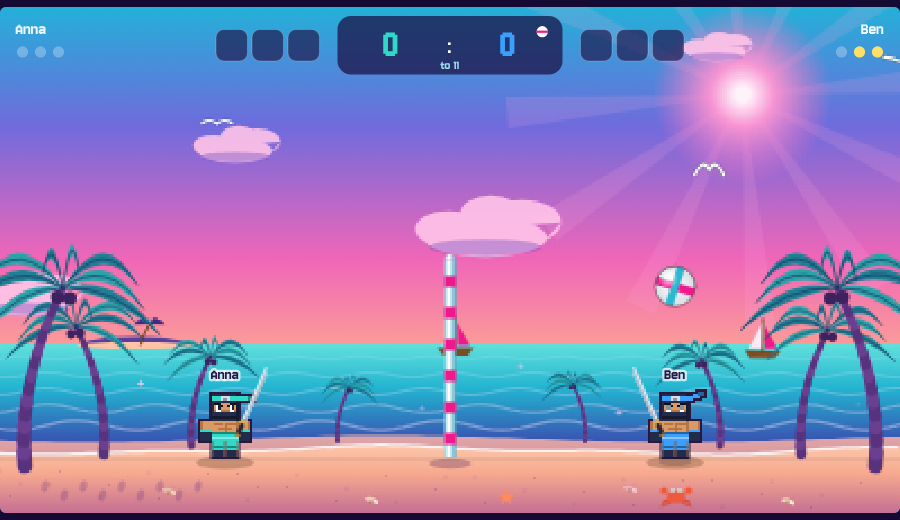
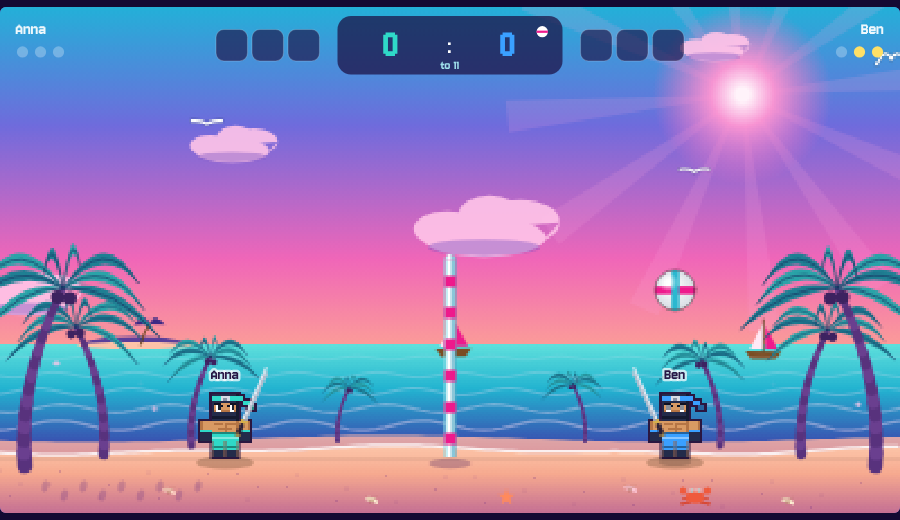
Ranged weapons without auto-aim: Cyborg shotgun (3 pellets), Cowboy revolver (1 bullet, fast reload)
Claude-Session: https://claude.ai/code/session_01SftAWfgvfxAKUMmDe4fn3V

diff --git a/scene.js b/scene.js
@@ -47,7 +47,7 @@
 
   function drawPerson(ctx, b, ball, t) {
     const R = C.BLOB_R, j = jstate(b), fem = b.gender === 'f', v = b.style;
-    const ninja = v === 'ninja', santa = v === 'santa', adv = v === 'adventurer', robot = v === 'robot';
+    const ninja = v === 'ninja', santa = v === 'santa', adv = v === 'adventurer', robot = v === 'cyborg', cow = v === 'cowboy';
     const hgt = Math.max(0, (C.GROUND - R) - b.y);
     ctx.fillStyle = `rgba(60,40,10,${0.26 - Math.min(0.16, hgt / 800)})`;
     ctx.beginPath(); ctx.ellipse(b.x, C.GROUND + 5, R * 0.85 * (1 - hgt / 650), 6, 0, 0, TAU); ctx.fill();
@@ -106,15 +106,15 @@
       part(12, -24 + cy, 4, 4, col, true); part(16, -22 + cy + w, 6, 4, col, true); part(20, -20 + cy + w * 2, 6, 4, dark, true);
       if (fem) { part(-18, -22 + cy, 6, 4, col, true); part(-18, -18 + cy, 4, 12, NH, true); }
     } else if (robot) {
-      // metal head: dark visor with glowing LED eyes that follow the ball, antenna, mouth grille
-      part(-12, -26 + cy, 24, 4, '#d4dbe8', false);
+      // cyborg: dark steel skull with glowing red eyes that follow the ball, exposed jaw, scar plate; chest plate with a red core
+      part(-12, -26 + cy, 24, 4, '#d4dbe8', false); part(-12, -6 + cy, 24, 4, '#5d6779', false);
       part(-10, -18 + cy, 20, 8, '#10151f', true);
-      [-8, 2].forEach(x => { part(x + (ox - 1) * 2, -16 + cy + (oy ? 1 : 0), 6, 4, '#4cf0ff', false); part(x + (ox - 1) * 2 + 2, -16 + cy, 2, 2, '#e6ffff', false); });
-      part(-6, -6 + cy, 12, 2, '#4a5468', false); part(-4, -6 + cy, 2, 2, '#aab6c8', false); part(0, -6 + cy, 2, 2, '#aab6c8', false);
-      part(-2, -34 + cy, 4, 8, METAL[1], true); part(-4, -38 + cy, 8, 4, '#ff3b5c', true);
-      part(-14, -16 + cy, 2, 8, METAL[1], false); part(12, -16 + cy, 2, 8, METAL[1], false);            // ear bolts
-      if (fem) { part(-12, -30 + cy, 8, 6, col, true); part(-10, -28 + cy, 4, 2, light, false); }
-      part(-8, 2 + cy, 16, 2, METAL[1], false); part(-8, 6 + cy, 2, 2, '#4cf0ff', false); part(6, 6 + cy, 2, 2, '#ff3b5c', false);   // chest panel
+      [-8, 2].forEach(x => { part(x + (ox - 1) * 2, -16 + cy + (oy ? 1 : 0), 6, 4, '#ff2a2a', false); part(x + (ox - 1) * 2 + 2, -16 + cy, 2, 2, '#ffd0d0', false); });
+      part(-8, -6 + cy, 16, 2, '#10151f', false); [-6, -2, 2, 6].forEach(x => part(x, -6 + cy, 2, 2, '#aab6c8', false));
+      part(4, -26 + cy, 8, 4, '#3a4252', false); part(6, -22 + cy, 2, 6, '#3a4252', false);            // damaged plate
+      part(-14, -16 + cy, 2, 8, METAL[1], false); part(12, -16 + cy, 2, 8, METAL[1], false);
+      if (fem) { part(-14, -22 + cy, 4, 4, METAL[1], true); part(-18, -18 + cy, 4, 16, '#3a4252', true); part(-18, -4 + cy, 4, 4, col, true); }   // cable ponytail
+      part(-8, 2 + cy, 16, 2, METAL[1], false); part(-2, 5 + cy, 4, 4, '#ff2a2a', false); part(-6, 6 + cy, 2, 2, '#aab6c8', false); part(4, 6 + cy, 2, 2, '#aab6c8', false);
     } else {
       // hair: short for him, long for her; Santa / Mrs. Claus have white hair under the hat
       const h0 = santa ? WH : hr[0], h1 = santa ? WH2 : hr[1];
@@ -173,11 +173,20 @@
       part(-12, -36 + cy, 24, 4, '#3a2412', false); part(-12, -42 + cy, 24, 2, '#a4733f', false); part(-2, -44 + cy, 4, 2, '#8b5e34', false);
       if (fem) { part(-18, -26 + cy, 6, 4, hr[0], true); part(-20, -22 + cy, 6, 14, hr[0], true); part(-20, -10 + cy, 6, 4, col, true); }   // braid
     }
+    // Cowboy: tan hat with upturned brim and red band, red neckerchief, sheriff star, spurs
+    if (cow) {
+      part(-12, -8 + cy, 24, 6, '#d7263d', false); part(-8, -2 + cy, 16, 4, '#d7263d', false); part(-4, 2 + cy, 8, 2, '#a01a2c', false);   // neckerchief
+      part(-8, 4 + cy, 6, 6, '#ffd23f', true); part(-6, 6 + cy, 2, 2, '#b8860b', false);                                                         // star
+      [-11, 1].forEach(x => part(x + 8, 28, 4, 2, '#ffd23f', false));                                                                              // spurs
+      part(-20, -32 + cy, 40, 6, '#c89a5a', true); part(-24, -36 + cy, 8, 6, '#c89a5a', true); part(16, -36 + cy, 8, 6, '#c89a5a', true);         // brim, curled up
+      part(-12, -46 + cy, 24, 14, '#d9ad6b', true); part(-4, -48 + cy, 8, 4, '#d9ad6b', true); part(-12, -38 + cy, 24, 4, '#a01a2c', false);   // crown + band
+      if (fem) { part(-18, -26 + cy, 6, 4, hr[0], true); part(-20, -22 + cy, 6, 14, hr[0], true); part(-20, -10 + cy, 6, 4, col, true); }
+    }
     ctx.fillStyle = OUT;
     ol.forEach(([x, y, w, h]) => ctx.fillRect(x - 2, y - 2, w + 4, h + 4));
     fill.forEach(([x, y, w, h, c]) => { ctx.fillStyle = c; ctx.fillRect(x, y, w, h); });
     // Alman Mode: bucket hat with little German flags (sits on top of whatever the figure wears)
-    if (b.alman) { ctx.save(); ctx.translate(0, (santa ? -34 : adv ? -38 : robot ? -26 : ninja ? -24 : -22) + cy); bucketHat(ctx, 18, 12, 10, 5); ctx.restore(); }
+    if (b.alman) { ctx.save(); ctx.translate(0, (santa ? -34 : adv ? -38 : cow ? -46 : robot ? -26 : ninja ? -24 : -22) + cy); bucketHat(ctx, 18, 12, 10, 5); ctx.restore(); }
     if (b.fight) drawWeapon(ctx, b, t, cy);
     ctx.restore();
   }
@@ -197,10 +206,14 @@
       px(ctx, 8, -3, 38, 3, '#a8763f'); px(ctx, 8, 0, 36, 3, '#7a4f2a');
       px(ctx, 40, -8, 10, 2, '#a8763f'); px(ctx, 44, -4, 12, 2, '#7a4f2a'); px(ctx, 44, 2, 12, 2, '#a8763f'); px(ctx, 40, 6, 10, 2, '#7a4f2a');
     },
-    blaster(ctx, t, ext) {  // ray gun
-      px(ctx, -6, -2, 8, 10, '#3d4658'); px(ctx, -6, -4, 18, 8, '#5b6578'); px(ctx, 12, -3, 14, 6, '#aeb8c8'); px(ctx, 12, -1, 14, 2, '#e6edf7');
-      px(ctx, 26, -4, 4, 8, '#4cf0ff'); px(ctx, 2, -6, 6, 2, '#ff3b5c');
-      if (ext > 0) { px(ctx, 30, -6, 8, 12, '#e6ffff'); px(ctx, 36, -3, 8, 6, '#4cf0ff'); }
+    shotgun(ctx, t, ext) {  // pump-action shotgun
+      px(ctx, -10, -3, 14, 8, '#6b3f1d'); px(ctx, -12, -2, 4, 10, '#4a2a12'); px(ctx, 4, -4, 28, 4, '#3d4658'); px(ctx, 4, 0, 28, 3, '#5b6578');
+      px(ctx, 12, 3, 10, 4, '#8a5a30'); px(ctx, 32, -4, 4, 6, '#aab6c8');
+      if (ext > 0) { px(ctx, 36, -8, 8, 14, '#fff3b0'); px(ctx, 44, -6, 8, 10, '#ff9a3c'); px(ctx, 40, -12, 4, 4, '#ffd23f'); }
+    },
+    revolver(ctx, t, ext) { // six-shooter
+      px(ctx, -6, -2, 8, 10, '#6b3f1d'); px(ctx, -6, -4, 14, 6, '#aab6c8'); px(ctx, 6, -4, 6, 8, '#8a93a6'); px(ctx, 12, -4, 14, 4, '#c8d0de'); px(ctx, 24, -6, 2, 2, '#e8eef6');
+      if (ext > 0) { px(ctx, 26, -6, 8, 10, '#fff3b0'); px(ctx, 34, -4, 6, 6, '#ff9a3c'); }
     },
     lasso(ctx, t, ext) {   // coiled rope with a spinning loop
       px(ctx, -6, -2, 14, 4, '#b98a4a');
@@ -218,7 +231,7 @@
   function drawWeapon(ctx, b, t, cy) {
     const dir = b.team === 0 ? 1 : -1, kind = VB.FIGURES[b.style].weapon, SW = C.WEAPON_SWING, ranged = VB.kindOf(b.style) === 'ranged';
     const p = b.swing > 0 ? 1 - b.swing / SW : -1;                      // swing progress 0..1, -1 = idle
-    const idle = ranged ? (dir === 1 ? -0.35 : Math.PI + 0.35) : (dir === 1 ? -1.15 : Math.PI + 1.15);
+    const idle = ranged ? VB.shotAngle(b) : (dir === 1 ? -1.15 : Math.PI + 1.15);   // a ranged weapon always shows its line of fire
     const ang = ranged ? (b.swing > 0 ? (b.aim || 0) : idle) : (p < 0 ? idle : (b.aim || 0) + (p - 0.5) * 2.2 * dir);
     ctx.save(); ctx.translate(dir * 14, 4 + cy);
     if (p >= 0 && !ranged) {                                                       // slash trail
@@ -231,26 +244,29 @@
     ctx.restore();
   }
 
-  /* Bolts of ranged weapons */
+  /* Projectiles of ranged weapons: shotgun pellets (k 0) and revolver bullets (k 1) */
   function drawShots(ctx, shots, t) {
     for (const s of shots) {
       const a = Math.atan2(s.vy, s.vx);
       ctx.save(); ctx.translate(Math.round(s.x), Math.round(s.y)); ctx.rotate(a);
-      ctx.fillStyle = 'rgba(76,240,255,0.25)'; ctx.fillRect(-34, -3, 30, 6);
-      ctx.fillStyle = 'rgba(76,240,255,0.5)'; ctx.fillRect(-20, -2, 18, 4);
-      ctx.fillStyle = '#4cf0ff'; ctx.fillRect(-6, -4, 14, 8);
-      ctx.fillStyle = '#ffffff'; ctx.fillRect(-2, -2, 10, 4);
+      if (s.k === 1) {
+        ctx.fillStyle = 'rgba(255,214,90,0.3)'; ctx.fillRect(-30, -2, 26, 4);
+        ctx.fillStyle = '#ffd23f'; ctx.fillRect(-6, -3, 12, 6); ctx.fillStyle = '#ffffff'; ctx.fillRect(0, -2, 8, 4);
+      } else {
+        ctx.fillStyle = 'rgba(255,154,60,0.35)'; ctx.fillRect(-14, -2, 12, 4);
+        ctx.fillStyle = '#ff9a3c'; ctx.fillRect(-4, -4, 8, 8); ctx.fillStyle = '#fff3b0'; ctx.fillRect(-2, -2, 4, 4);
+      }
       ctx.restore();
     }
   }
 
   function drawLabel(ctx, b) {
     ctx.font = '700 12px "Jersey 10", system-ui, sans-serif'; ctx.textAlign = 'center';
-    const ly = b.y - C.BLOB_R - 9 - (b.alman ? 11 : 0) - (b.style === 'santa' ? 12 : 0);   // sit above the hat
+    const ly = b.y - C.BLOB_R - 9 - (b.alman ? 11 : 0) - (b.style === 'santa' || b.style === 'cowboy' ? 12 : 0);   // sit above the hat
     ctx.lineJoin = 'round'; ctx.lineWidth = 4; ctx.strokeStyle = 'rgba(255,255,255,.7)'; ctx.strokeText(b.label, b.x, ly, 96);
     ctx.fillStyle = 'rgba(30,12,60,.95)'; ctx.fillText(b.label, b.x, ly, 96);
     if (b.fight && b.cd > 0) {                                           // weapon recharge bar
-      const w = 34, f = 1 - b.cd / (VB.kindOf(b.style) === 'ranged' ? C.SHOT_CD : C.WEAPON_CD);
+      const w = 34, f = 1 - b.cd / VB.cdMax(b.style);
       ctx.fillStyle = 'rgba(30,12,60,.8)'; ctx.fillRect(b.x - w / 2 - 1, ly + 4, w + 2, 6);
       ctx.fillStyle = '#ffd23f'; ctx.fillRect(b.x - w / 2, ly + 5, w * f, 4);
     }

diff --git a/engine.js b/engine.js
@@ -24,7 +24,7 @@
     // Volley Fight: weapons
     WEAPON_CD: 96, WEAPON_SWING: 14,    // cooldown 1.6 s, swing lasts 14 frames
     WEAPON_REACH: 58, WEAPON_V: 16.5,   // reach beyond the body, ball speed after a weapon hit (classic hits: max 13)
-    SHOT_CD: 84, SHOT_V: 15, SHOT_R: 7, // ranged weapons: cooldown 1.4 s, bolt speed, bolt radius
+    SHOT_R: 7,                          // ranged weapons: projectile radius (speed, cooldown ... see RANGED)
     SHOT_BOOST: 1.38, SHOT_SLOW: 0.55   // ball speed factor: bolt hits a ball flying to the opponents (boost) / toward the shooter's side (slow)
   };
 
@@ -39,15 +39,28 @@
    * a per-figure ability that can act on the ball. */
   const FIGURES = {
     pixel: { name: 'Pixel Hero', weapon: 'sword' },
-    robot: { name: 'Robot', weapon: 'blaster' },
+    cyborg: { name: 'Cyborg', weapon: 'shotgun' },
+    cowboy: { name: 'Cowboy', weapon: 'revolver' },
     ninja: { name: 'Ninja', weapon: 'katana' },
     adventurer: { name: 'Adventurer', weapon: 'lasso' },
     santa: { name: 'Santa', nameF: 'Mrs. Claus', weapon: 'rod' }
   };
   const DEFAULT_FIGURE = 'pixel';
   /* Weapon categories: 'melee' (swing, smashes the ball faster) and 'ranged' (fires a bolt over the net that speeds up / slows down the ball). */
-  const WEAPON_KIND = { katana: 'melee', sword: 'melee', lasso: 'melee', rod: 'melee', blaster: 'ranged' };
-  const kindOf = style => WEAPON_KIND[(FIGURES[style] || FIGURES[DEFAULT_FIGURE]).weapon];
+  const WEAPON_KIND = { katana: 'melee', sword: 'melee', lasso: 'melee', rod: 'melee', shotgun: 'ranged', revolver: 'ranged' };
+  /* Ranged weapons (no auto-aim): n projectiles per shot spread by `spread` rad, speed v px/frame, flight time `life` frames, cooldown `cd` frames. */
+  const RANGED = {
+    shotgun:  { n: 3, spread: 0.14, v: 15, life: 50, cd: 100 },      // 3 pellets, short range, slow to reload
+    revolver: { n: 1, spread: 0,    v: 18, life: 90, cd: 42 }        // one bullet, quick to fire again
+  };
+  const weaponOf = style => (FIGURES[style] || FIGURES[DEFAULT_FIGURE]).weapon;
+  const kindOf = style => WEAPON_KIND[weaponOf(style)];
+  const cdMax = style => (kindOf(style) === 'ranged' ? RANGED[weaponOf(style)].cd : C.WEAPON_CD);
+  /* Direction of a ranged shot: forward and a bit upward from the ground; in the air it follows the jump (rising: up, falling: down). */
+  function shotAngle(b) {
+    const a = b.onGround ? -0.32 : Math.max(-0.25, Math.min(0.35, b.vy * 0.03));
+    return b.team === 0 ? a : Math.PI - a;
+  }
 
   const LEVELS = {
     easy:   { delay: 14, err: 46, move: 0.72, jump: 0.55, grab: 0.25, use: 0.010, wpn: 0.06, mult: 1.0 },
@@ -198,8 +211,15 @@
         if (near && b.onGround && rng() < p.jump) inp.jump = true;
       }
 
-      // Volley Fight, ranged weapon: now and then shoot at the ball (slows it down when it comes at us, speeds it up when it flies to the opponents)
-      if (sim.fight && kindOf(b.style) === 'ranged' && b.cd === 0 && sim.state === 'play' && rng() < p.wpn * 0.35) inp.special = true;
+      // Volley Fight, ranged weapon (no auto-aim): shoot when the ball is on the line of fire
+      if (sim.fight && kindOf(b.style) === 'ranged') {
+        if (b.cd === 0 && sim.state === 'play') {
+          const W = RANGED[weaponOf(b.style)], ang = shotAngle(b), dx = (ball.x - b.x) * dir;
+          if (dx > 40 && dx < W.v * W.life * 0.9) {
+            if (Math.abs(ball.y - (b.y - 4 + dx * Math.tan(dir === 1 ? ang : Math.PI - ang))) < 30 && rng() < p.wpn * 2) inp.special = true;
+          }
+        }
+      }
       // Volley Fight, melee weapon: swing when the ball is in reach
       else if (sim.fight && kindOf(b.style) === 'melee' && b.cd === 0 && b.swing === 0 && (sim.state === 'play' || sim.state === 'serve') &&
           !(sim.lastTouchTeam === b.team && sim.touches[b.team] >= C.MAX_TOUCHES) &&
@@ -246,6 +266,7 @@
       this.pred = { x: 200, y: 280, t: 99 };
       // power-ups
       this.items = []; this.puId = 0;
+      this.volley = 0; this.ballVol = 0;
       this.shots = [];              // Volley Fight: bolts of ranged weapons in flight [{x, y, vx, vy, team, life}]
       this.puTimer = C.PU_INTERVAL;
       this.inv = [[], []];          // collected, not yet used (per team)
@@ -426,19 +447,16 @@
       if (this.touches[b.team] > C.MAX_TOUCHES) this.endRally(1 - b.team, 'fault');
     }
 
-    /* Ranged weapon: fires a bolt toward the ball (auto-aim with a little lead). The bolt flies over the net. */
+    /* Ranged weapon: fires projectiles in the direction of shotAngle() (no auto-aim) – over the net if the angle is right. */
     fire(b) {
-      const ball = this.ball;
-      let tx = ball.x, ty = ball.y;
-      for (let i = 0; i < 2; i++) {                              // aim at where the ball will be when the bolt arrives
-        const t = Math.hypot(tx - b.x, ty - b.y) / C.SHOT_V;
-        tx = ball.x + ball.vx * t; ty = ball.y + ball.vy * t + 0.5 * C.BALL_G * t * t;
+      const W = RANGED[weaponOf(b.style)], a0 = shotAngle(b);
+      b.aim = a0; b.swing = 10; b.cd = W.cd;
+      this.volley = (this.volley || 0) + 1;
+      for (let i = 0; i < W.n; i++) {
+        const a = a0 + (i - (W.n - 1) / 2) * W.spread;
+        this.shots.push({ x: b.x + Math.cos(a0) * (C.BLOB_R + 8), y: b.y - 4 + Math.sin(a0) * (C.BLOB_R + 8), vx: Math.cos(a) * W.v, vy: Math.sin(a) * W.v, team: b.team, life: W.life, k: W.n > 1 ? 0 : 1, vol: this.volley });
       }
-      tx = clamp(tx, 0, C.W); ty = clamp(ty, 0, C.GROUND);
-      const a = Math.atan2(ty - b.y, tx - b.x);
-      b.aim = a; b.swing = 10; b.cd = C.SHOT_CD;
-      this.shots.push({ x: b.x + Math.cos(a) * (C.BLOB_R + 6), y: b.y - 4 + Math.sin(a) * (C.BLOB_R + 6), vx: Math.cos(a) * C.SHOT_V, vy: Math.sin(a) * C.SHOT_V, team: b.team, life: 90 });
-      this.emit('shot', { blob: b.id });
+      this.emit('shot', { blob: b.id, heavy: W.n > 1 });
     }
     /* Bolts: a hit on a ball flying toward the opponents speeds it up, on a ball flying toward the shooter's own side it slows it down. */
     stepShots() {
@@ -447,7 +465,8 @@
         const s = this.shots[i];
         s.x += s.vx; s.y += s.vy;
         let dead = --s.life <= 0 || s.x < -20 || s.x > C.W + 20 || s.y < -20 || s.y > C.GROUND + 10 || this.state === 'over';
-        if (!dead && this.state === 'play' && Math.hypot(ball.x - s.x, ball.y - s.y) < C.BALL_R + C.SHOT_R) {
+        if (!dead && this.state === 'play' && s.vol !== this.ballVol && Math.hypot(ball.x - s.x, ball.y - s.y) < C.BALL_R + C.SHOT_R) {
+          this.ballVol = s.vol;                       // one effect per volley, even if several pellets hit
           const toOpp = s.team === 0 ? 1 : -1;
           const sp = Math.hypot(ball.vx, ball.vy);
           let boost;
@@ -459,7 +478,7 @@
             if (boost) { const n = Math.hypot(ball.vx, ball.vy); if (n > 18) { ball.vx *= 18 / n; ball.vy *= 18 / n; } }
           }
           this.emit('shotHit', { boost, x: ball.x, y: ball.y });
-          dead = true;
+          dead = s.k === 1;                            // a bullet is used up; pellets fly on
         }
         if (dead) this.shots.splice(i, 1);
       }
@@ -570,7 +589,7 @@
     }
   }
 
-  const api = { C, LEVELS, POWERUPS, FIGURES, DEFAULT_FIGURE, WEAPON_KIND, kindOf, Sim, Blob, AI, mulberry32, towelRects };
+  const api = { C, LEVELS, POWERUPS, FIGURES, DEFAULT_FIGURE, WEAPON_KIND, RANGED, kindOf, cdMax, shotAngle, Sim, Blob, AI, mulberry32, towelRects };
   if (typeof module !== 'undefined' && module.exports) module.exports = api;
   else root.VB = api;
 })(typeof self !== 'undefined' ? self : this);

diff --git a/index.html b/index.html
@@ -172,7 +172,7 @@
         <li><b>Figures:</b> before each match pick your name, hero (Pixel Hero, Ninja, Adventurer or Santa / Mrs. Claus), look (male / female) and swimwear colour.</li>
         <li><b>Online:</b> one player creates a room and shares the 4-letter code (or the invite link), the other joins. The host's browser runs the game, so the host should keep the tab in the foreground.</li>
         <li><b>Power-ups:</b> every 30 s each player gets one falling from the sky. Catch it with your hero (3 can be stored), then press Ctrl to use it. See the Power-ups page for what they do.</li>
-        <li><b>Volley Fight:</b> choose “Volley Fight” under Rules. Every hero has a weapon – two kinds. <b>Melee</b> (Pixel Hero sword, Ninja katana, Adventurer lasso, Santa birch rod): press the special key (Ctrl / ⚡) to swing – the weapon aims at the ball by itself and, if the ball is in reach, smashes it away faster than a normal hit; it counts as one of your 3 touches. <b>Ranged</b> (Robot ray gun): fires a bolt at the ball, even over the net. It speeds up a ball that is flying to your opponents and slows down one that is coming at you; it is not a touch. Weapons recharge for about 1.5 s (bar under the name). There are no power-ups in this mode.</li>
+        <li><b>Volley Fight:</b> choose “Volley Fight” under Rules. Every hero has a weapon – two kinds. <b>Melee</b> (Pixel Hero sword, Ninja katana, Adventurer lasso, Santa birch rod): press the special key (Ctrl / ⚡) to swing – the weapon aims at the ball by itself and, if the ball is in reach, smashes it away faster than a normal hit; it counts as one of your 3 touches. <b>Ranged</b> (Cyborg shotgun: 3 pellets, slow to reload · Cowboy revolver: 1 bullet, fires again quickly): there is <i>no auto-aim</i> – the shot goes forward and slightly up from the ground, and follows your jump in the air (the gun shows the line of fire), so aim by where you stand and jump. A hit speeds up a ball that is flying to your opponents and slows down one that is coming at you; shots are not touches. Weapons need time to recharge (bar under the name). There are no power-ups in this mode.</li>
         <li><b>High scores:</b> wins against the CPU count – points = lead × 100 × level factor + longest rally × 10.</li>
       </ul>
       <div class="row"><button id="btnHowtoBack">Back</button></div>

diff --git a/app.js b/app.js
@@ -44,8 +44,8 @@
   const COLORS = { blue: '#3aa0ff', red: '#ff5a55', green: '#4cd964', yellow: '#ffc933' };
   const PALETTE = [['Blue', '#3aa0ff'], ['Red', '#ff5a55'], ['Green', '#4cd964'], ['Yellow', '#ffc933'],
                    ['Orange', '#ff9a3c'], ['Purple', '#b36bff'], ['Pink', '#ff7ac8'], ['Turquoise', '#2fd9c8']];
-  const looks = Object.assign({ p1: { color: PALETTE[7][1], gender: 'm', style: 'ninja' }, p2: { color: PALETTE[6][1], gender: 'm', style: 'adventurer' } }, store.get('vb_looks', {}));
-  ['p1', 'p2'].forEach(k => { if (!FIGURES[looks[k].style]) looks[k].style = k === 'p1' ? 'ninja' : 'adventurer'; });
+  const looks = Object.assign({ p1: { color: PALETTE[7][1], gender: 'm', style: 'ninja' }, p2: { color: PALETTE[6][1], gender: 'm', style: 'cowboy' } }, store.get('vb_looks', {}));
+  ['p1', 'p2'].forEach(k => { if (!FIGURES[looks[k].style]) looks[k].style = k === 'p1' ? 'ninja' : 'cowboy'; });
   /* name / figure / colour picker used by the setup screen and the online lobby */
   const figName = (id, gender) => (gender === 'f' && FIGURES[id].nameF) || FIGURES[id].name;
   const styleOf = v => (FIGURES[v] ? v : VB.DEFAULT_FIGURE);
@@ -355,7 +355,10 @@
   function playEvent(e) {
     switch (e.type) {
       case 'hit': tone(170 + e.power * 130, 0.1, 'square', 0.1, -70); break;
-      case 'shot': tone(1500, 0.14, 'square', 0.07, -1100); tone(300, 0.1, 'sawtooth', 0.05, -120, 0.02); break;
+      case 'shot':
+        if (e.heavy) { tone(110, 0.22, 'sawtooth', 0.2, -80); tone(700, 0.12, 'square', 0.08, -600); tone(70, 0.3, 'triangle', 0.16, -30, 0.05); }
+        else { tone(1800, 0.09, 'square', 0.09, -1400); tone(260, 0.1, 'sawtooth', 0.06, -150, 0.02); }
+        break;
       case 'shotHit': if (e.boost) { tone(500, 0.16, 'sawtooth', 0.12, 900); tone(1300, 0.08, 'square', 0.06); } else { tone(900, 0.2, 'sawtooth', 0.12, -700); tone(150, 0.14, 'triangle', 0.1, -60); } break;
       case 'swing': tone(900, 0.12, 'sawtooth', 0.04, -700); break;
       case 'weapon': tone(120, 0.16, 'square', 0.16, -60); tone(520, 0.1, 'sawtooth', 0.08, -380, 0.01); tone(1500, 0.05, 'triangle', 0.06, -600); break;

diff --git a/style.css b/style.css
@@ -104,7 +104,7 @@ button:focus-visible,input:focus-visible,select:focus-visible{outline:3px solid 
 .pname{display:flex;gap:10px;align-items:center}
 .pname input{flex:1;min-width:0;width:auto}
 canvas.prev{width:72px;height:72px;flex:none;image-rendering:pixelated;background:linear-gradient(#6f6bdc,#f066b8 70%,#ffc3a8);border:2px solid #69cbdc;border-radius:4px}
-.tiles{display:grid;grid-template-columns:repeat(5,1fr);gap:6px}
+.tiles{display:grid;grid-template-columns:repeat(6,1fr);gap:6px}
 .look .tile{display:flex;flex-direction:column;align-items:center;gap:2px;padding:3px 2px 4px;background:#140a33;border:2px solid #69cbdc44;border-radius:4px;color:#d9ccff;font-size:13px;box-shadow:none;letter-spacing:0;font-weight:400}
 .look .tile canvas{width:72px;height:72px;max-width:100%;image-rendering:pixelated;background:linear-gradient(#6f6bdc,#f066b8 70%,#ffc3a8);border-radius:3px}
 .look .tile:hover{background:#2b1a73}
@@ -129,3 +129,6 @@ canvas.prev{width:72px;height:72px;flex:none;image-rendering:pixelated;backgroun
 .look .tile .cat{font-size:10px;color:#9be9ff;line-height:1}
 .look .tile .cat.melee{color:#ffb86b}
 .look .tile{font-size:12px}
+.look .tile canvas{width:60px;height:60px}
+.look .tile{font-size:11px}
+#online .look .tile canvas,#online canvas.prev{width:44px;height:44px}

diff --git a/net.js b/net.js
@@ -18,7 +18,7 @@
       sc: sim.score, sv: sim.serving, tc: sim.touches, lt: sim.lastTouchTeam, rh: sim.rallyHits, lr: sim.longestRally,
       st: sim.state, tm: sim.timer, w: sim.winner, ms: sim.message, mt: sim.messageTimer,
       it: sim.items.map(p => [p.id, p.type, r2(p.x), r2(p.y), p.age]),
-      sh: sim.shots.map(p => [r2(p.x), r2(p.y), r2(p.vx), r2(p.vy), p.team]),
+      sh: sim.shots.map(p => [r2(p.x), r2(p.y), r2(p.vx), r2(p.vy), p.team, p.k]),
       inv: sim.inv, tw: sim.towels, am: sim.alman, au: sim.aura,
       ev: sim.events.slice()
     };
@@ -38,7 +38,7 @@
     sim.rallyHits = s.rh; sim.longestRally = s.lr;
     sim.state = s.st; sim.timer = s.tm; sim.winner = s.w; sim.message = s.ms; sim.messageTimer = s.mt;
     sim.items = s.it.map(a => ({ id: a[0], type: a[1], x: a[2], y: a[3], by: a[3], age: a[4] }));
-    sim.shots = (s.sh || []).map(a => ({ x: a[0], y: a[1], vx: a[2], vy: a[3], team: a[4] }));
+    sim.shots = (s.sh || []).map(a => ({ x: a[0], y: a[1], vx: a[2], vy: a[3], team: a[4], k: a[5] | 0, vol: 0 }));
     sim.inv = s.inv; sim.towels = s.tw; sim.alman = s.am; sim.aura = s.au;
     sim.events = s.ev || [];
   }

diff --git a/sw.js b/sw.js
@@ -1,6 +1,6 @@
 /* Beach Volley Hero service worker: app shell available offline.
  * Bump VERSION whenever any file changes. */
-const VERSION = 'vb-v24';
+const VERSION = 'vb-v25';
 const SHELL = [
   './', 'index.html', 'style.css', 'engine.js', 'scene.js', 'net.js', 'app.js', 'vendor/peerjs.min.js', 'vendor/fonts/jersey-10-latin-400-normal.woff2', 'manifest.webmanifest',
   'icons/icon.svg', 'icons/logo.svg', 'icons/icon-192.png', 'icons/icon-512.png', 'icons/icon-maskable-512.png'
